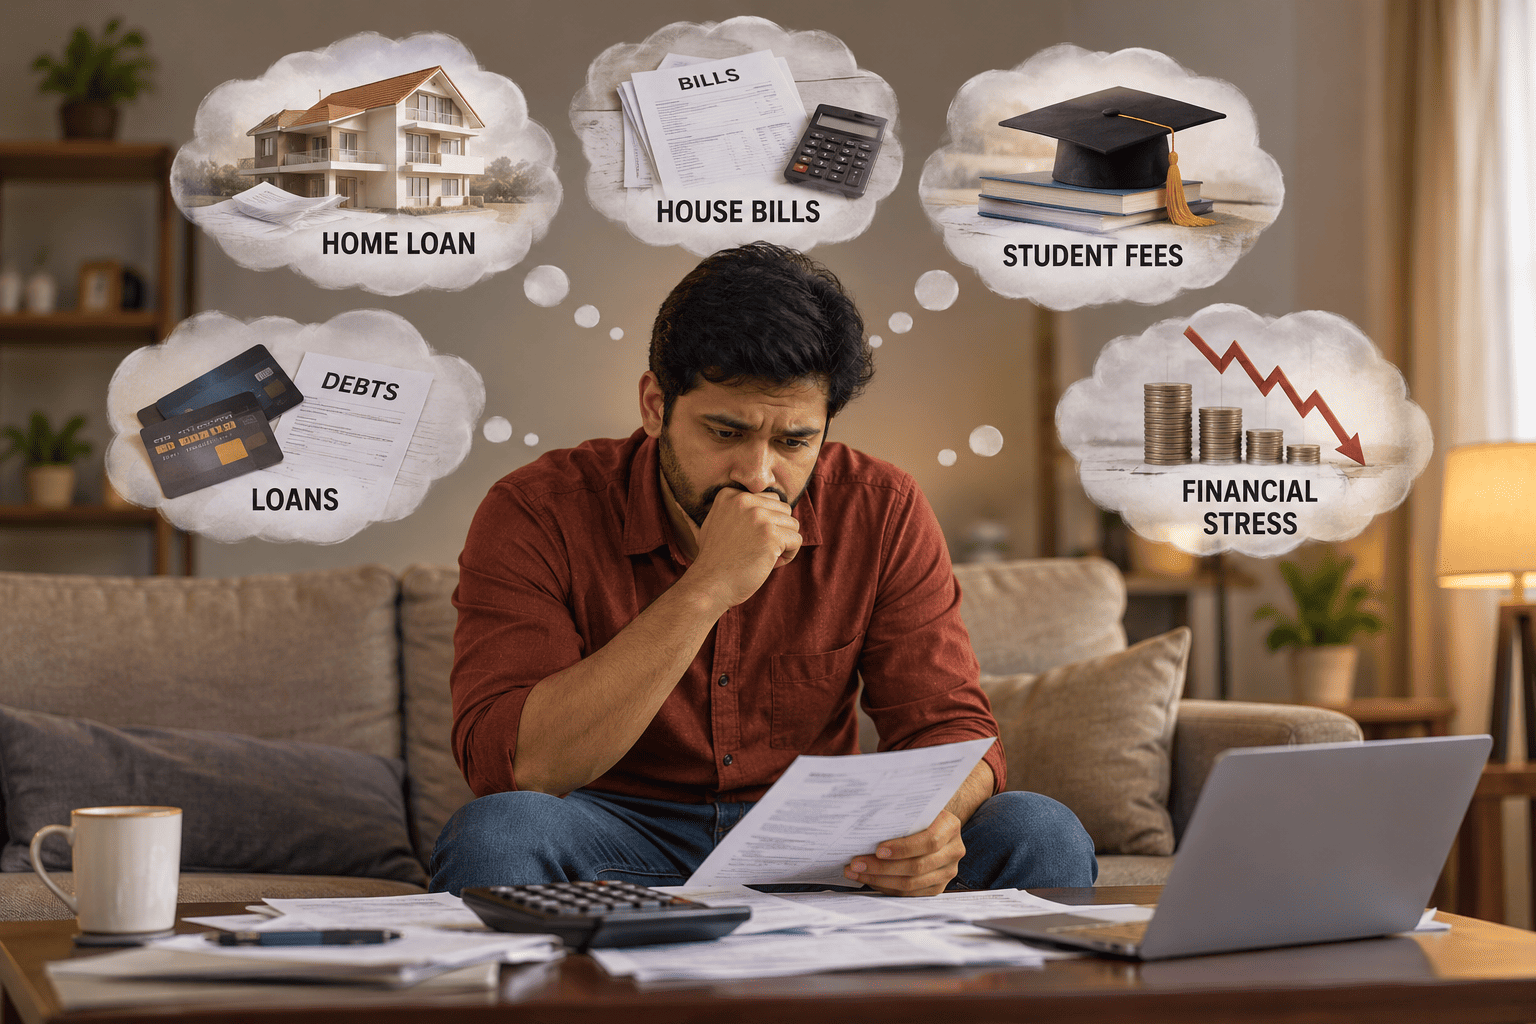
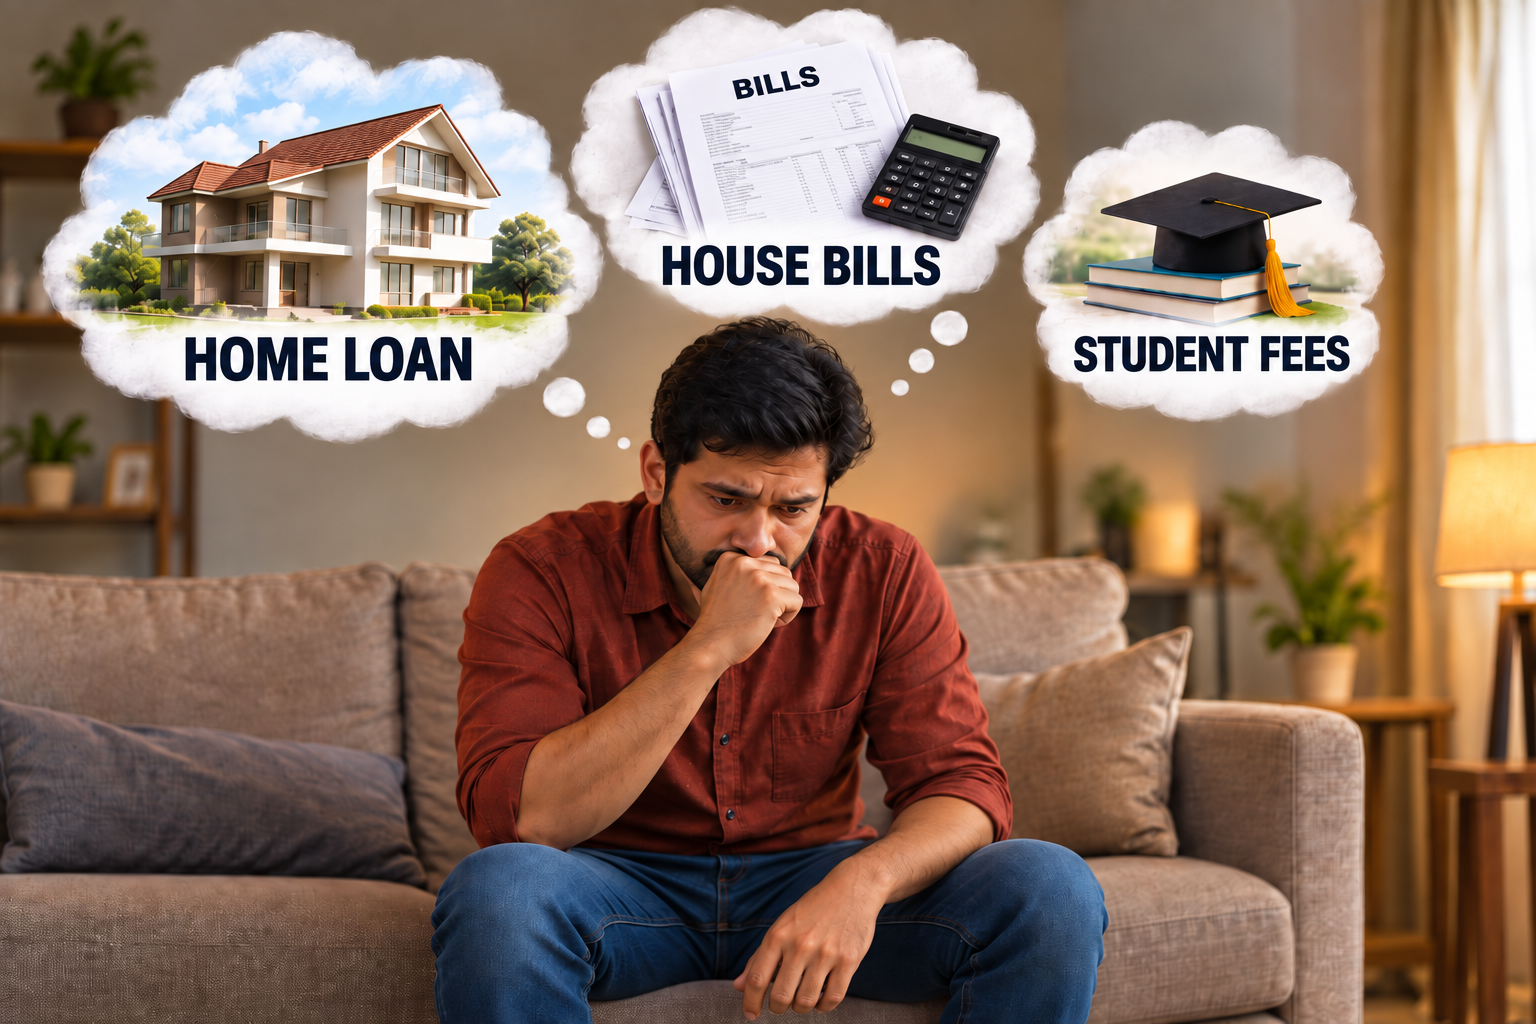
images are updated

diff --git a/saturn_remedies/index.html b/saturn_remedies/index.html
@@ -24,7 +24,7 @@
         }
 
         @media (min-width: 1024px) {
-            .clone {
+            #problems-carousel .clone {
                 display: none !important;
             }
         }
@@ -39,10 +39,8 @@
         <!-- Mobile Title (Visible only on mobile/tablet) -->
         <div class="block md:hidden w-full px-6 z-20 bg-[#071A33]" style="padding-top: 40px;">
             <div class="flex justify-start mb-6">
-                <a href="/">
-                    <img src="https://cdn.astroved.com/images/images-av/AstroVed-Logo.svg" alt="AstroVed Logo"
-                        class="h-6 w-auto object-contain">
-                </a>
+                <img src="https://cdn.astroved.com/images/images-av/AstroVed-Logo.svg" alt="AstroVed Logo"
+                    class="h-6 w-auto object-contain">
             </div>
             <h1 class="font-serif text-[36px] font-bold text-white leading-tight tracking-tight text-center">
                 Looking for<br>
@@ -380,11 +378,10 @@
                     <div
                         class="bg-white w-[85%] sm:w-[calc(50%-12px)] lg:w-auto shrink-0 snap-start lg:shrink lg:snap-none rounded-2xl shadow-sm border border-[#FFE4D6] overflow-hidden group flex flex-col hover:-translate-y-2 hover:shadow-xl hover:border-[#E86B35] transition-all duration-300 ease-out">
                         <!-- Image -->
-                        <div class="aspect-[4/3] w-full relative overflow-hidden bg-orange-50 m-1.5 rounded-[12px]">
-                            <img src="assets/images/careers-etback.png" alt="Career Setbacks"
-                                class="w-full h-full object-cover group-hover:scale-105 transition-transform duration-700" />
-                            <div
-                                class="absolute inset-0 bg-black/10 group-hover:bg-transparent transition-colors duration-300">
+                        <div class="aspect-[4/3] relative overflow-hidden bg-orange-50 m-1.5 rounded-[12px]">
+                            <img src="assets/images/careers-setback.png" alt="Career Setbacks"
+                                class="w-full h-full object-cover transition-transform duration-700" />
+                            <div class="absolute inset-0 bg-transparent transition-colors duration-300">
                             </div>
                         </div>
                         <!-- Icon -->
@@ -410,11 +407,10 @@
                     <div
                         class="bg-white w-[85%] sm:w-[calc(50%-12px)] lg:w-auto shrink-0 snap-start lg:shrink lg:snap-none rounded-2xl shadow-sm border border-[#FFE4D6] overflow-hidden group flex flex-col hover:-translate-y-2 hover:shadow-xl hover:border-[#E86B35] transition-all duration-300 ease-out">
                         <!-- Image -->
-                        <div class="aspect-[4/3] w-full relative overflow-hidden bg-orange-50 m-1.5 rounded-[12px]">
+                        <div class="aspect-[4/3] relative overflow-hidden bg-orange-50 m-1.5 rounded-[12px]">
                             <img src="assets/images/financial-setback.png" alt="Financial Hardship"
-                                class="w-full h-full object-cover group-hover:scale-105 transition-transform duration-700" />
-                            <div
-                                class="absolute inset-0 bg-black/10 group-hover:bg-transparent transition-colors duration-300">
+                                class="w-full h-full object-cover transition-transform duration-700" />
+                            <div class="absolute inset-0 bg-transparent transition-colors duration-300">
                             </div>
                         </div>
                         <!-- Icon -->
@@ -440,11 +436,10 @@
                     <div
                         class="bg-white w-[85%] sm:w-[calc(50%-12px)] lg:w-auto shrink-0 snap-start lg:shrink lg:snap-none rounded-2xl shadow-sm border border-[#FFE4D6] overflow-hidden group flex flex-col hover:-translate-y-2 hover:shadow-xl hover:border-[#E86B35] transition-all duration-300 ease-out">
                         <!-- Image -->
-                        <div class="aspect-[4/3] w-full relative overflow-hidden bg-orange-50 m-1.5 rounded-[12px]">
+                        <div class="aspect-[4/3] relative overflow-hidden bg-orange-50 m-1.5 rounded-[12px]">
                             <img src="assets/images/health&vitality.png" alt="Health Issues"
-                                class="w-full h-full object-cover group-hover:scale-105 transition-transform duration-700" />
-                            <div
-                                class="absolute inset-0 bg-black/10 group-hover:bg-transparent transition-colors duration-300">
+                                class="w-full h-full object-cover transition-transform duration-700" />
+                            <div class="absolute inset-0 bg-transparent transition-colors duration-300">
                             </div>
                         </div>
                         <!-- Icon -->
@@ -470,11 +465,10 @@
                     <div
                         class="bg-white w-[85%] sm:w-[calc(50%-12px)] lg:w-auto shrink-0 snap-start lg:shrink lg:snap-none rounded-2xl shadow-sm border border-[#FFE4D6] overflow-hidden group flex flex-col hover:-translate-y-2 hover:shadow-xl hover:border-[#E86B35] transition-all duration-300 ease-out">
                         <!-- Image -->
-                        <div class="aspect-[4/3] w-full relative overflow-hidden bg-orange-50 m-1.5 rounded-[12px]">
+                        <div class="aspect-[4/3] relative overflow-hidden bg-orange-50 m-1.5 rounded-[12px]">
                             <img src="assets/images/relationship-strain.png" alt="Relationship Strain"
-                                class="w-full h-full object-cover group-hover:scale-105 transition-transform duration-700" />
-                            <div
-                                class="absolute inset-0 bg-black/10 group-hover:bg-transparent transition-colors duration-300">
+                                class="w-full h-full object-cover transition-transform duration-700" />
+                            <div class="absolute inset-0 bg-transparent transition-colors duration-300">
                             </div>
                         </div>
                         <!-- Icon -->
@@ -509,29 +503,87 @@
             const problemsNext = document.getElementById('problems-next');
 
             if (problemsPrev && problemsNext && problemsCarousel) {
-                const getScrollAmount = () => {
-                    // Mobile uses 85% width cards, tablet uses 50% width cards
-                    return window.innerWidth < 640 ? problemsCarousel.clientWidth * 0.85 : problemsCarousel.clientWidth * 0.5;
+                // Select only original cards
+                const originalCards = Array.from(problemsCarousel.children).filter(el =>
+                    !el.classList.contains('clone') && el.tagName !== 'STYLE'
+                );
+
+                if (originalCards.length === 0) return;
+
+                const getCardWidth = () => {
+                    const card = originalCards[0];
+                    if (!card) return 0;
+                    if (originalCards.length > 1) {
+                        return originalCards[1].offsetLeft - originalCards[0].offsetLeft;
+                    }
+                    return card.offsetWidth;
                 };
 
-                problemsPrev.addEventListener('click', () => {
-                    if (problemsCarousel.scrollLeft <= 10) {
-                        // Loop to end
-                        problemsCarousel.scrollTo({ left: problemsCarousel.scrollWidth, behavior: 'auto' });
-                    } else {
-                        problemsCarousel.scrollBy({ left: -getScrollAmount(), behavior: 'smooth' });
+                // Clone elements if not already cloned
+                if (problemsCarousel.querySelectorAll('.clone').length === 0) {
+                    originalCards.forEach(card => {
+                        const clone = card.cloneNode(true);
+                        clone.classList.add('clone');
+                        clone.setAttribute('aria-hidden', 'true');
+                        problemsCarousel.appendChild(clone);
+                    });
+                    for (let i = originalCards.length - 1; i >= 0; i--) {
+                        const clone = originalCards[i].cloneNode(true);
+                        clone.classList.add('clone');
+                        clone.setAttribute('aria-hidden', 'true');
+                        problemsCarousel.insertBefore(clone, problemsCarousel.firstChild);
                     }
+                    setTimeout(() => {
+                        problemsCarousel.scrollTo({ left: getCardWidth() * originalCards.length, behavior: 'auto' });
+                    }, 50);
+                }
+
+                problemsPrev.addEventListener('click', () => {
+                    problemsCarousel.scrollBy({ left: -getCardWidth(), behavior: 'smooth' });
                 });
 
                 problemsNext.addEventListener('click', () => {
-                    const maxScroll = problemsCarousel.scrollWidth - problemsCarousel.clientWidth;
-                    if (problemsCarousel.scrollLeft >= maxScroll - 10) {
-                        // Loop to start
-                        problemsCarousel.scrollTo({ left: 0, behavior: 'auto' });
-                    } else {
-                        problemsCarousel.scrollBy({ left: getScrollAmount(), behavior: 'smooth' });
-                    }
+                    problemsCarousel.scrollBy({ left: getCardWidth(), behavior: 'smooth' });
                 });
+
+                // Debounce scroll for infinite loop jump to avoid breaking touch swipe
+                let scrollTimeout;
+                problemsCarousel.addEventListener('scroll', () => {
+                    clearTimeout(scrollTimeout);
+                    scrollTimeout = setTimeout(() => {
+                        // Only run infinite loop logic on mobile (when clones are actually visible)
+                        if (window.innerWidth >= 1024) return;
+
+                        const cardWidth = getCardWidth();
+                        if (cardWidth === 0) return;
+                        const numCards = originalCards.length;
+                        const maxRealScroll = cardWidth * numCards * 2;
+
+                        // Buffer to trigger jump when entirely in cloned area
+                        if (problemsCarousel.scrollLeft >= maxRealScroll - 10) {
+                            problemsCarousel.scrollTo({ left: problemsCarousel.scrollLeft - (cardWidth * numCards), behavior: 'auto' });
+                        } else if (problemsCarousel.scrollLeft <= (cardWidth * 0.5)) {
+                            problemsCarousel.scrollTo({ left: problemsCarousel.scrollLeft + (cardWidth * numCards), behavior: 'auto' });
+                        }
+                    }, 50);
+                }, { passive: true });
+
+                let autoScrollInterval;
+                function startAutoScroll() {
+                    if (autoScrollInterval) clearInterval(autoScrollInterval);
+                    autoScrollInterval = setInterval(() => {
+                        if (window.innerWidth < 1024) {
+                            problemsCarousel.scrollBy({ left: getCardWidth(), behavior: 'smooth' });
+                        }
+                    }, 5000);
+                }
+
+                startAutoScroll();
+
+                problemsCarousel.addEventListener('mouseenter', () => clearInterval(autoScrollInterval));
+                problemsCarousel.addEventListener('mouseleave', startAutoScroll);
+                problemsCarousel.addEventListener('touchstart', () => clearInterval(autoScrollInterval), { passive: true });
+                problemsCarousel.addEventListener('touchend', startAutoScroll);
             }
         });
     </script>
@@ -630,9 +682,9 @@
                         Daily Support
                     </div>
 
-                    <div class="h-40 p-2 sm:p-3 relative overflow-hidden mt-3 rounded-t-2xl">
+                    <div class="h-40 relative overflow-hidden bg-orange-50 m-1.5 rounded-[12px]">
                         <img src="assets/images/Package1.png"
-                            class="w-full h-full object-cover rounded-xl transform group-hover:scale-105 transition-transform duration-700 shadow-sm"
+                            class="w-full h-full object-cover transition-transform duration-700"
                             alt="Daily Shani Sponsorship">
                     </div>
 
@@ -674,9 +726,9 @@
                         Focused Worship
                     </div>
 
-                    <div class="h-40 p-2 sm:p-3 relative overflow-hidden mt-3 rounded-t-2xl">
+                    <div class="h-40 relative overflow-hidden bg-orange-50 m-1.5 rounded-[12px]">
                         <img src="assets/images/Package-2.png"
-                            class="w-full h-full object-cover rounded-xl transform group-hover:scale-105 transition-transform duration-700 shadow-sm"
+                            class="w-full h-full object-cover transition-transform duration-700"
                             alt="7 Days Shani Pooja">
                     </div>
 
@@ -714,10 +766,9 @@
                         Physical Product
                     </div>
 
-                    <div class="h-40 p-2 sm:p-3 relative overflow-hidden mt-3 rounded-t-2xl">
+                    <div class="h-40 relative overflow-hidden bg-orange-50 m-1.5 rounded-[12px]">
                         <img src="assets/images/Package-3.png"
-                            class="w-full h-full object-cover rounded-xl transform group-hover:scale-105 transition-transform duration-700 shadow-sm"
-                            alt="Saturn Yantra">
+                            class="w-full h-full object-cover transition-transform duration-700" alt="Saturn Yantra">
                     </div>
 
                     <div class="p-5 pt-2 flex-grow flex flex-col relative z-20 text-center">
@@ -755,9 +806,9 @@
                         Continuing Worship
                     </div>
 
-                    <div class="h-40 p-2 sm:p-3 relative overflow-hidden mt-3 rounded-t-2xl">
+                    <div class="h-40 relative overflow-hidden bg-orange-50 m-1.5 rounded-[12px]">
                         <img src="assets/images/Package-4.png"
-                            class="w-full h-full object-cover rounded-xl transform group-hover:scale-105 transition-transform duration-700 shadow-sm"
+                            class="w-full h-full object-cover transition-transform duration-700"
                             alt="Monthly Shani Sponsorship">
                     </div>
 
@@ -1306,8 +1357,8 @@
                     </div>
 
                     <!-- Navigation Dots Centered Below -->
-                    <div class="flex justify-center items-center gap-2 mt-4" id="testimonial-dots">
-                    </div>
+                    <!-- <div class="flex justify-center items-center gap-2 mt-4" id="testimonial-dots">
+                    </div> -->
 
                 </div>
 
@@ -1364,12 +1415,18 @@
 
                 if (prevBtn) {
                     prevBtn.addEventListener('click', () => {
-                        carousel.scrollBy({ left: -getCardWidth(), behavior: 'smooth' });
+                        const cardWidth = getCardWidth();
+                        if (cardWidth === 0) return;
+                        const targetLeft = Math.round(carousel.scrollLeft / cardWidth) * cardWidth - cardWidth;
+                        carousel.scrollTo({ left: targetLeft, behavior: 'smooth' });
                     });
                 }
                 if (nextBtn) {
                     nextBtn.addEventListener('click', () => {
-                        carousel.scrollBy({ left: getCardWidth(), behavior: 'smooth' });
+                        const cardWidth = getCardWidth();
+                        if (cardWidth === 0) return;
+                        const targetLeft = Math.round(carousel.scrollLeft / cardWidth) * cardWidth + cardWidth;
+                        carousel.scrollTo({ left: targetLeft, behavior: 'smooth' });
                     });
                 }
 
